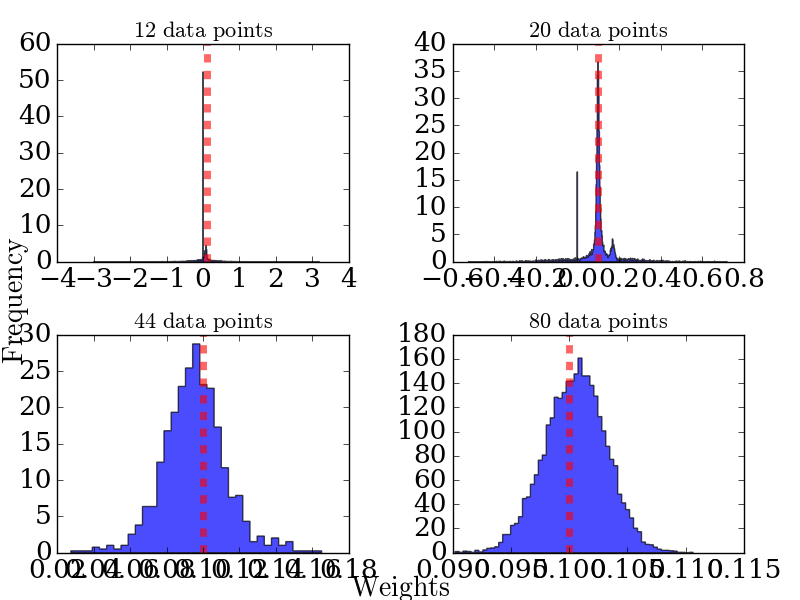
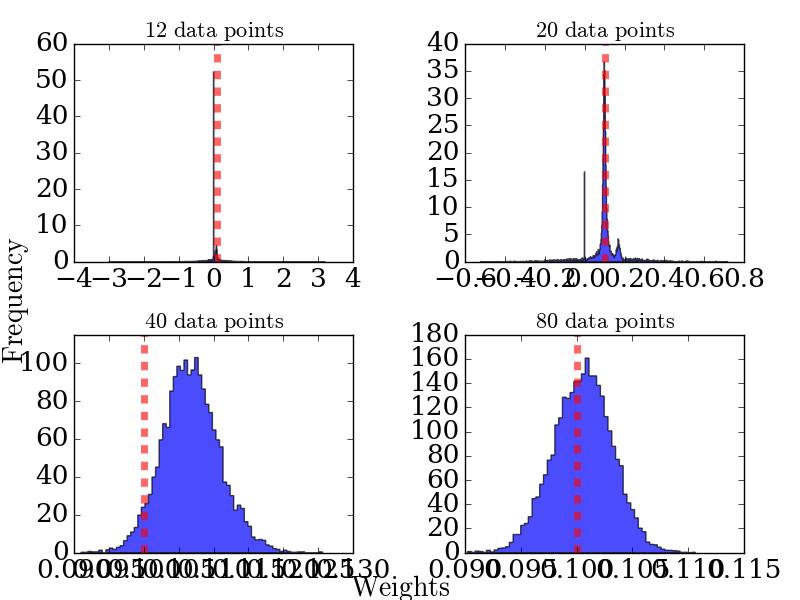
Updated final graph

diff --git a/tests.py b/tests.py
@@ -402,6 +402,7 @@ plt.show()
 p0 = np.genfromtxt('spike_slab_results\s_n_s_p0\weights20.csv')
 
 # Histogram with the  'Bayesian blocks' method for bin sizes from AstroPy
+print("If you get a weird warning from AstroPy, don't worry it seems fine.")
 plt.figure()
 hist(p0[1000:], bins = 'blocks', histtype='stepfilled', normed=True,
             color='b', alpha = 0.7)
@@ -443,12 +444,12 @@ plt.show()
 # Get posterior for weights of various numbers of data points.
 w3 = np.genfromtxt('spike_slab_results\s_n_s_weights\weights3.csv')
 w5 = np.genfromtxt('spike_slab_results\s_n_s_weights\weights5.csv')
-w11 = np.genfromtxt('spike_slab_results\s_n_s_weights\weights11.csv')
+w10 = np.genfromtxt('spike_slab_results\s_n_s_weights\weights10.csv')
 w20 = np.genfromtxt('spike_slab_results\s_n_s_weights\weights20.csv')
 
-weights = [w3[1000:, 1], w5[1000:, 1], w11[1000:, 1], w20[1000:, 1]]
-titles = ['12', '20', '44', '80']
-lims = [60.0, 40.0, 30.0, 180.0]
+weights = [w3[1000:, 1], w5[1000:, 1], w10[1000:, 1], w20[1000:, 1]]
+titles = ['12', '20', '40', '80']
+lims = [60.0, 40.0, 115.0, 180.0]
 lims = iter(lims)
 
 # Plot histograms of the four weights on a big figure.
